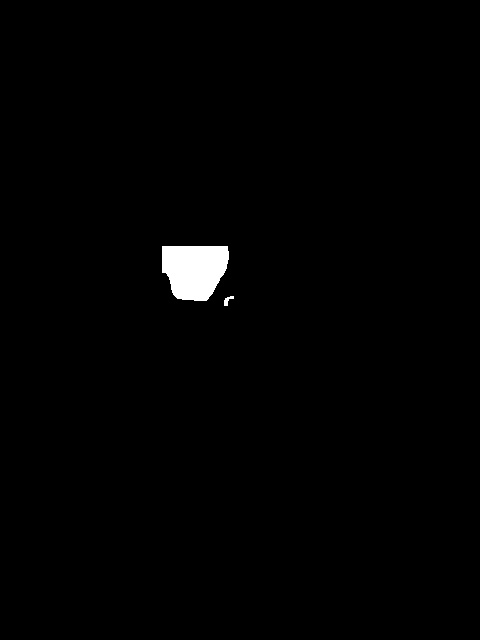
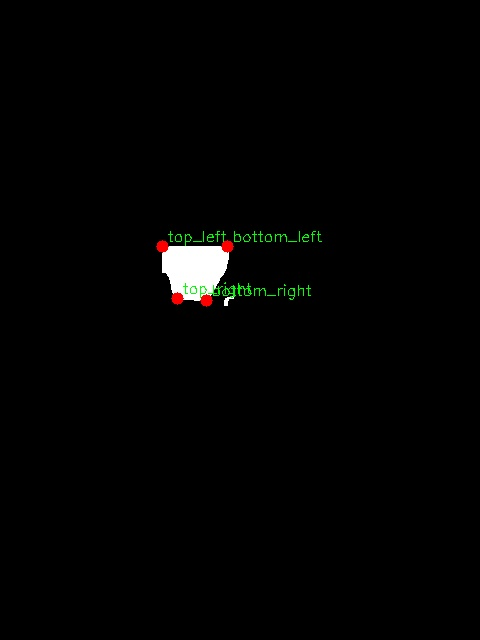
add corner points

Changed region(s): [[0.3125, 0.3438, 0.6562, 0.4062], [0.3438, 0.4375, 0.6562, 0.5]]

diff --git a/test.py b/test.py
@@ -20,10 +20,6 @@ if not os.path.exists(save_dir):
 model = YOLO("weights/best.pt")
 results = model.predict("input.jpg", save=True)
 
-# print("====results====")
-# print(results[0])
-# print("====results end====")
-
 masks = results[0].masks.data
 classes = results[0].boxes.cls
 
@@ -35,8 +31,36 @@ for c, mask in zip(classes, masks):
         cv2.imwrite(os.path.join(save_dir,'eri.jpg'), mask.cpu().numpy().astype(np.uint8))
     elif c == Label.OBI.value:
         cv2.imwrite(os.path.join(save_dir,'obi.jpg'), mask.cpu().numpy().astype(np.uint8))
+
+        image = mask.cpu().numpy().astype(np.uint8)
+        contours, _ = cv2.findContours(mask.cpu().numpy().astype(np.uint8), cv2.RETR_EXTERNAL, cv2.CHAIN_APPROX_SIMPLE)
+
+        if len(contours) == 0:
+            print("No contours found.")
+            continue
+        largest_contour = max(contours, key=cv2.contourArea)
+        points = largest_contour.reshape(-1, 2)
+        sum_pts = points[:, 0] + points[:, 1] * 2
+        diff_pts = points[:, 0] - points[:, 1] * 2
+
+        top_left = points[np.argmin(sum_pts)]
+        bottom_right = points[np.argmax(sum_pts)]
+        top_right = points[np.argmin(diff_pts)]
+        bottom_left = points[np.argmax(diff_pts)]
+
+        corner_points = {
+            "top_left": tuple(top_left),
+            "top_right": tuple(top_right),
+            "bottom_left": tuple(bottom_left),
+            "bottom_right": tuple(bottom_right),
+        }
+
+        img_color = cv2.cvtColor(image, cv2.COLOR_GRAY2BGR)
+        for name, pt in corner_points.items():
+            cv2.circle(img_color, pt, 6, (0, 0, 255), -1)
+            cv2.putText(img_color, name, (pt[0] + 5, pt[1] - 5),
+                        cv2.FONT_HERSHEY_SIMPLEX, 0.5, (0, 255, 0), 1)
+        cv2.imwrite(os.path.join(save_dir,'obi.jpg'), img_color)
+
     elif c == Label.HANERI.value:
         cv2.imwrite(os.path.join(save_dir,'haneri.jpg'), mask.cpu().numpy().astype(np.uint8))
-
-# people_mask = masks[Label.ERI.value].int() * 255
-# cv2.imwrite(os.path.join(save_dir,'merged_segs.jpg'), people_mask.cpu().numpy().astype(np.uint8))
